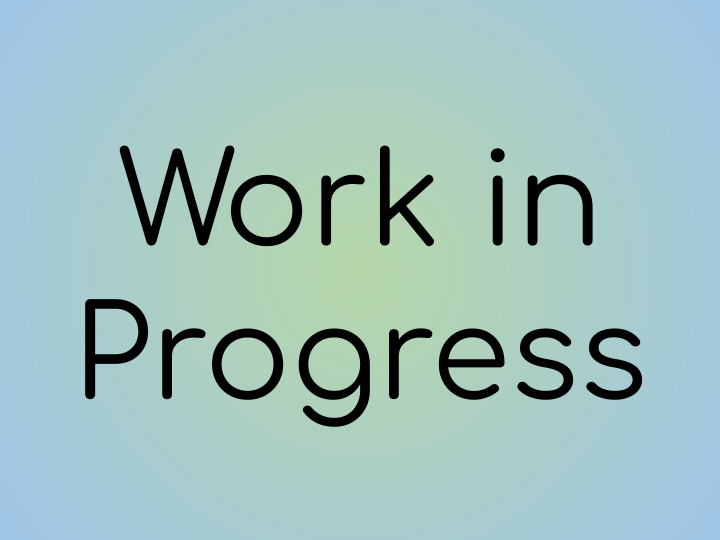
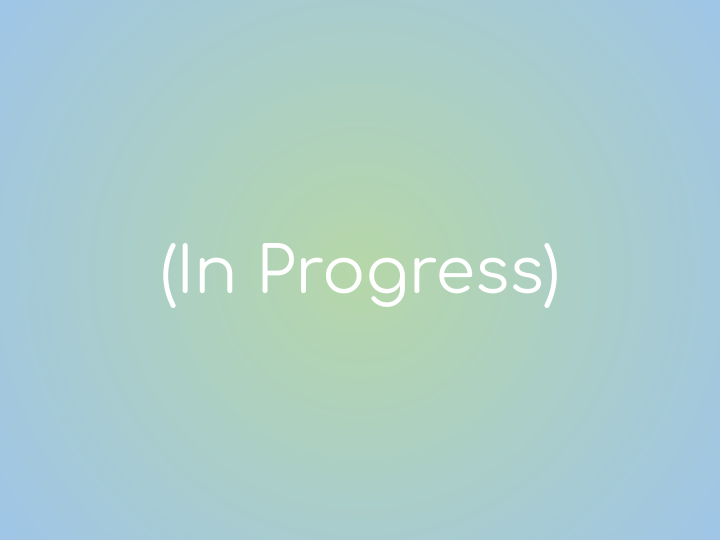
add WIP projects -- ascii-art + git-quill, remove old smart article analyzer project

Changed region(s): [[0.0917, 0.2667, 0.9167, 0.8], [0.6722, 0.2667, 0.7028, 0.2963]]

diff --git a/src/pages/Projects.tsx b/src/pages/Projects.tsx
@@ -8,19 +8,38 @@ import bucrossing from '../assets/projects/bucrossing/1.jpg';
 import seniordesign from '../assets/projects/seniordesign/1.png';
 import virtualfilesystem from '../assets/projects/virtualfilesystem/1.png';
 import portfolio from '../assets/projects/portfolio/1.png';
+import wip from '../assets/wip.png'
 
 const Projects = () => {
     return (
         <div id="projects" className="w-full snap-start flex justify-center flex-col items-center space-y-10 py-24">
             <h1 className="text-xl">Projects</h1>
             <Project
-                title="Fridge Tracker"
+                title="Ascii-Art"
+                description="A CLI tool and Go library for converting images to ASCII Art with edge detection"
+                website="#"
+                image={wip}
+                alt="Project Thumbnail"
+                technologies={["Go"]}
+                links={[{ title: "In Progress", url: "#" }]}
+            />
+            <Project
+                title="GitQuill"
+                description="A personal blog template that posts via Git commits"
+                website="#"
+                image={wip}
+                alt="Project Thumbnail"
+                technologies={["Go", "HTMX"]}
+                links={[{ title: "In Progress", url: "#" }]}
+            />
+            <Project
+                title="FridgeBuddy - Smart Fridge Tracker"
                 description="An economical touchscreen attachment for grocery management with automated receipt scanning, recipe suggestions, expiration date alerts, and mobile device syncing."
                 website="#"
                 image={seniordesign}
                 alt="Project Thumbnail"
                 technologies={["React", "React Native", "TypeScript", "Python", "DynamoDB"]}
-                links={[{ title: "In Progress", url: "https://github.com/EC463-Smart-Fridge" }]}
+                links={[{ title: "Github", url: "https://github.com/EC463-Smart-Fridge" }]}
             />
             <Project
                 title="Movie Browser"
@@ -32,13 +51,14 @@ const Projects = () => {
                 links={[{ title: "Demo", url: "https://movie.yerf.dev" }, { title: "GitHub", url: "https://github.com/jeffc25/movie-browser" }]}
             />
             <Project
-                title="TLDRover"
-                description="A rewrite of the Smart Article Analyzer"
+                title="TLDRover - Smart Article Analyzer"
+                // description="A rewrite of the Smart Article Analyzer"
+                description="An application to generate summaries, keywords, and sentiment from articles, PDF documents, and arbritrary text."
                 website="https://github.com/jeffc25/smart-article-analyzer"
                 image={tldrover}
                 alt="Project Thumbnail"
                 technologies={["FastAPI", "Python", "React", "TypeScript", "Tailwind"]}
-                links={[{ title: "In Progress", url: "https://github.com/jeffc25/tldrover" }]}
+                links={[{ title: "GitHub", url: "https://github.com/jeffc25/tldrover" }]}
             />
             <Project
                 title="Chat App"
@@ -49,7 +69,7 @@ const Projects = () => {
                 technologies={["React", "JavaScript", "Tailwind", "Firebase"]}
                 links={[{ title: "Demo", url: "https://chat-app.yerf.dev" }, { title: "GitHub", url: "https://github.com/jeffc25/chat-app" }]}
             />
-            <Project
+            {/* <Project
                 title="Smart Article Analyzer"
                 description="An application to generate summaries, keywords, and sentiment from articles, PDF documents, and arbritrary text."
                 website="https://github.com/jeffc25/smart-article-analyzer-old"
@@ -57,7 +77,7 @@ const Projects = () => {
                 alt="Project Thumbnail"
                 technologies={["Flask", "Python", "Bootstrap"]}
                 links={[{ title: "GitHub", url: "https://github.com/jeffc25/smart-article-analyzer-old" }]}
-            />
+            /> */}
             <Project
                 title="Cookietective"
                 description="An investigation of cookie leakage vulnerabilities due to CNAME cloaking across over 17,000 domains."
